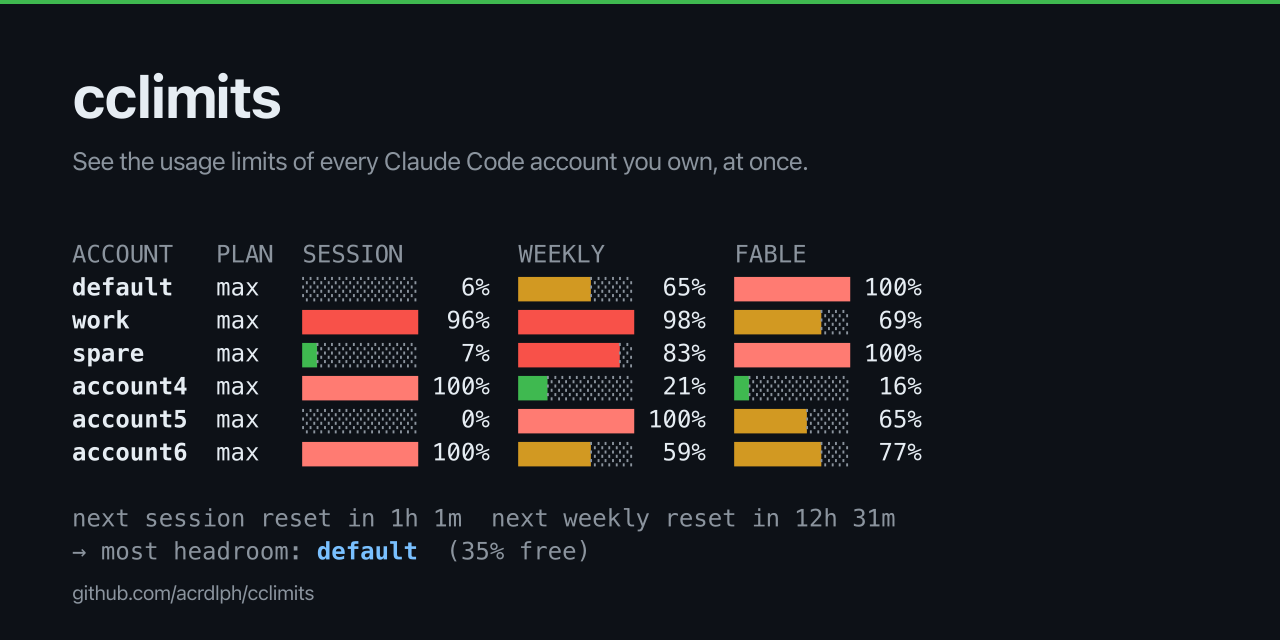
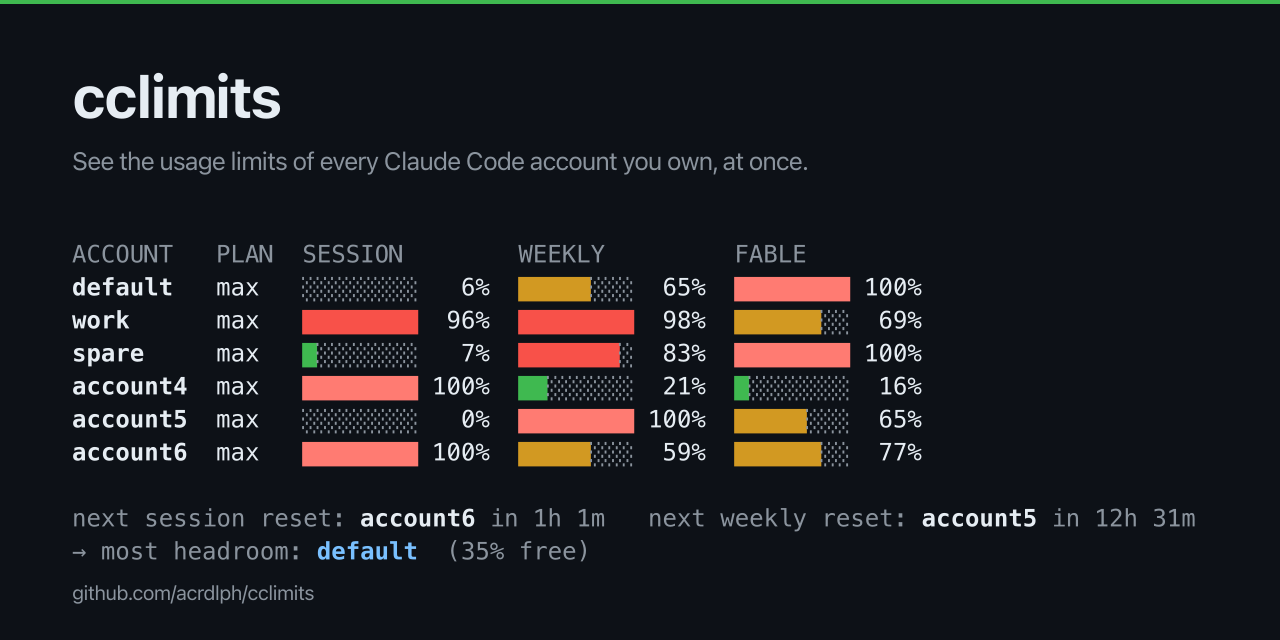
feat: name the account behind each reset, drop the export hint
The footer said "next session reset in 43m" without saying whose — useless
when the whole point is choosing between six accounts. It now names them, and
session and weekly are attributed independently because they are usually
different accounts:

  next session reset: account6 in 3m   next weekly reset: default in 11h 13m

Also drop `export CLAUDE_CONFIG_DIR=...` from the recommendation line. `cc best`
supersedes it, so the raw path was just noise.

Changed region(s): [[0.2812, 0.7812, 0.9375, 0.8438]]

diff --git a/src/cclimits/render.py b/src/cclimits/render.py
@@ -8,7 +8,7 @@ import sys
 from datetime import datetime, timezone
 from typing import List, Optional
 
-from .model import AccountUsage, Limit
+from .model import SESSION, WEEKLY, AccountUsage, Limit
 
 BAR_WIDTH = 12
 FULL, EMPTY = "█", "░"
@@ -163,31 +163,45 @@ def render_table(accounts: List[AccountUsage], color: bool = True) -> str:
     return "\n".join(lines)
 
 
+def _soonest_reset(accounts: List[AccountUsage], group: str):
+    """The (account, seconds) pair whose limit in this group resets first."""
+    candidates = []
+    for account in accounts:
+        if not account.ok:
+            continue
+        limit = account.session if group == SESSION else account.weekly
+        if limit is None:
+            continue
+        seconds = limit.resets_in_seconds()
+        if seconds is not None:
+            candidates.append((account, seconds))
+    return min(candidates, key=lambda pair: pair[1]) if candidates else None
+
+
 def _reset_footer(accounts: List[AccountUsage], paint: Painter) -> str:
-    """Soonest session and weekly reset across all healthy accounts."""
-    healthy = [account for account in accounts if account.ok]
+    """Which account frees up next, and when."""
     parts = []
-    for label, getter in (("session", lambda a: a.session), ("weekly", lambda a: a.weekly)):
-        times = [
-            limit.resets_in_seconds()
-            for limit in (getter(account) for account in healthy)
-            if limit is not None and limit.resets_in_seconds() is not None
-        ]
-        if times:
-            parts.append(f"next {label} reset in {humanize(min(times))}")
-    return paint("  ".join(parts), DIM) if parts else ""
+    for name, group in (("session", SESSION), ("weekly", WEEKLY)):
+        soonest = _soonest_reset(accounts, group)
+        if soonest is None:
+            continue
+        account, seconds = soonest
+        parts.append(
+            paint(f"next {name} reset: ", DIM)
+            + paint(account.label, BOLD)
+            + paint(f" in {humanize(seconds)}", DIM)
+        )
+    return "   ".join(parts)
 
 
 def recommend(accounts: List[AccountUsage], paint: Painter) -> str:
     best = best_account(accounts)
     if best is None:
         return ""
-    name = best.label
     return (
         paint("→ most headroom: ", DIM)
-        + paint(name, BOLD, CYAN)
-        + paint(f"  ({best.headroom:.0f}% free)  ", DIM)
-        + paint(f"export CLAUDE_CONFIG_DIR={best.config_dir}", DIM)
+        + paint(best.label, BOLD, CYAN)
+        + paint(f"  ({best.headroom:.0f}% free)", DIM)
     )
 
 

diff --git a/tests/test_cclimits.py b/tests/test_cclimits.py
@@ -221,6 +221,42 @@ def test_expired_credentials_are_detected():
     assert not fresh.is_expired
 
 
+def _account_with_resets(slug, session_pct, session_in, weekly_in):
+    now = datetime.now(timezone.utc)
+    return model.AccountUsage(
+        slug=slug,
+        config_dir=Path("/tmp") / slug,
+        limits=[
+            model.Limit("Session", model.SESSION, session_pct, now + timedelta(minutes=session_in)),
+            model.Limit("Weekly", model.WEEKLY, 50, now + timedelta(minutes=weekly_in)),
+        ],
+    )
+
+
+def test_footer_names_the_account_that_frees_up_first():
+    # Durations are asserted in test_humanize; what matters here is *which*
+    # account each reset is attributed to — the two are deliberately different.
+    soon = _account_with_resets("soon", 100, session_in=10, weekly_in=999)
+    later = _account_with_resets("later", 100, session_in=500, weekly_in=100)
+    out = render.render_table([later, soon], color=False)
+    assert "next session reset: soon in" in out
+    assert "next weekly reset: later in" in out
+
+
+def test_footer_ignores_broken_accounts():
+    broken = model.AccountUsage(slug="broken", config_dir=Path("/tmp/b"), error="expired")
+    good = _account_with_resets("good", 50, session_in=30, weekly_in=60)
+    out = render.render_table([broken, good], color=False)
+    assert "next session reset: good in" in out
+
+
+def test_recommendation_no_longer_prints_the_export_line():
+    """`cc best` supersedes it; the raw path is just noise in the table."""
+    out = render.render_table([_account(10, 20)], color=False)
+    assert "most headroom" in out
+    assert "export CLAUDE_CONFIG_DIR" not in out
+
+
 def test_table_renders_a_column_per_model_scoped_limit():
     out = render.render_table([_account(10, 20, fable=30)], color=False)
     assert "SESSION" in out and "WEEKLY" in out and "FABLE" in out

diff --git a/README.md b/README.md
@@ -124,15 +124,14 @@ CLAUDE_CONFIG_DIR=~/.claude-spare      claude   # a third, and so on
 
 Any directory name works. `cclimits` autodiscovers `~/.claude` and `~/.claude-*`.
 
-**2. Add shell helpers** so switching is one word. In `~/.zshrc` or `~/.bashrc`:
+**2. Add the shell integration** so switching is one word. In `~/.zshrc` or `~/.bashrc`:
 
 ```bash
-ccwork()  { export CLAUDE_CONFIG_DIR=~/.claude-work;  echo "→ work";  }
-ccspare() { export CLAUDE_CONFIG_DIR=~/.claude-spare; echo "→ spare"; }
-ccmine()  { unset CLAUDE_CONFIG_DIR;                  echo "→ default"; }
+eval "$(cclimits --shell-init zsh)"    # or: bash
 ```
 
-`CLAUDE_CONFIG_DIR` is read per process, so it only affects the shell you set it in.
+That gives you [`cc`](#switching-accounts-the-cc-command) — `cc 2`, `cc best`, `cc 4 claude`.
+`CLAUDE_CONFIG_DIR` is read per process, so a switch only affects the shell you make it in.
 
 **3. Check where you stand:**
 